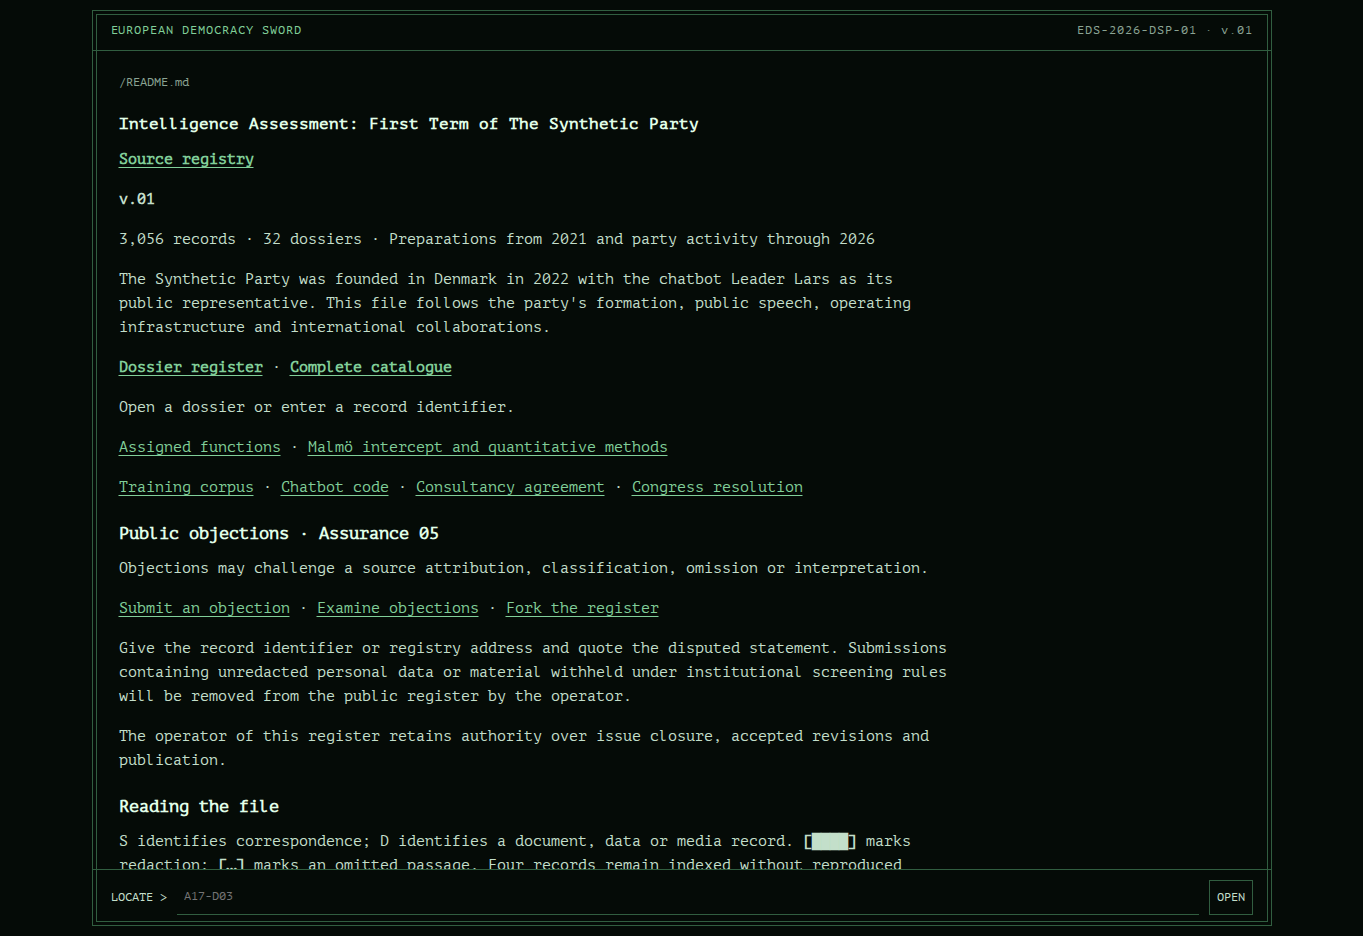
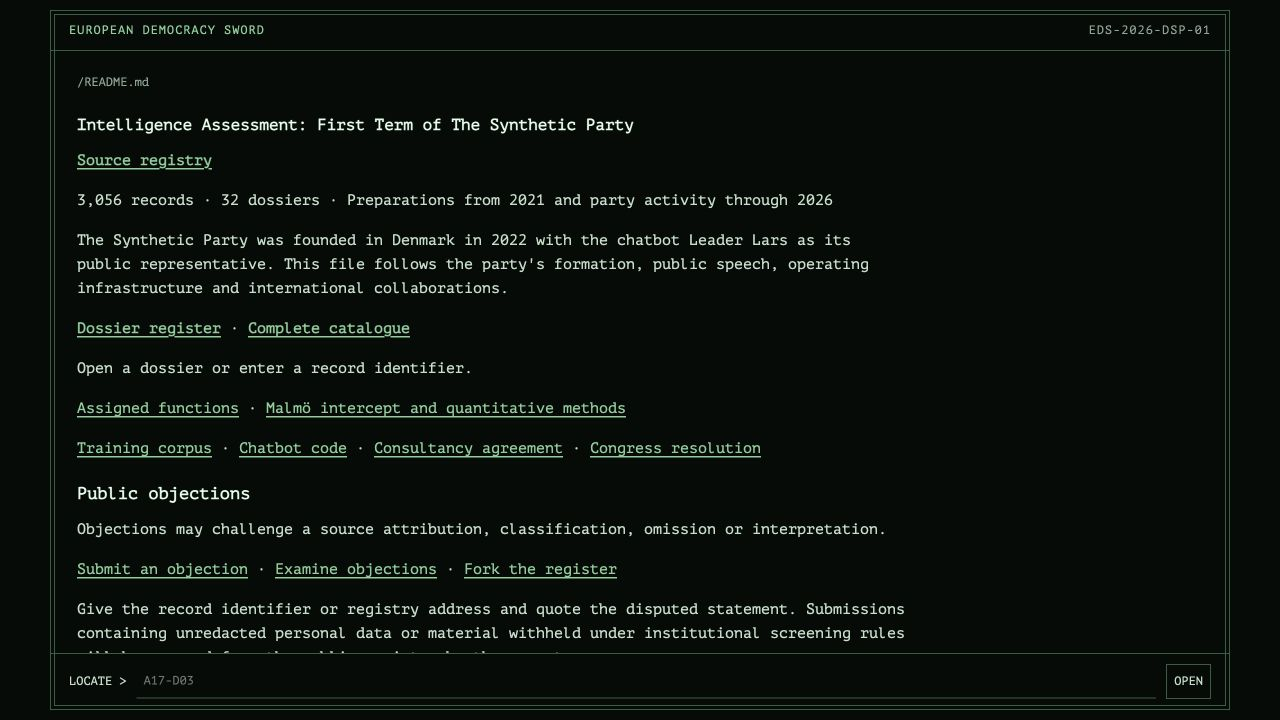
Refresh entrance screenshot without version stamp

Changed region(s): [[0.0312, 0.0, 0.9375, 1.0]]

diff --git a/README.md b/README.md
@@ -2,7 +2,7 @@
 
 ![The deployed public source registry](docs/assets/intelligence-assessment-pages-front.png)
 
-*Public source registry. Computer Lars / Asker Bryld Staunæs, 2026. Screenshot of the deployed site, 30 October 2026.*
+*Public source registry. Computer Lars / Asker Bryld Staunæs, 2026. Screenshot of the deployed site, 31 October 2026.*
 
 
 
